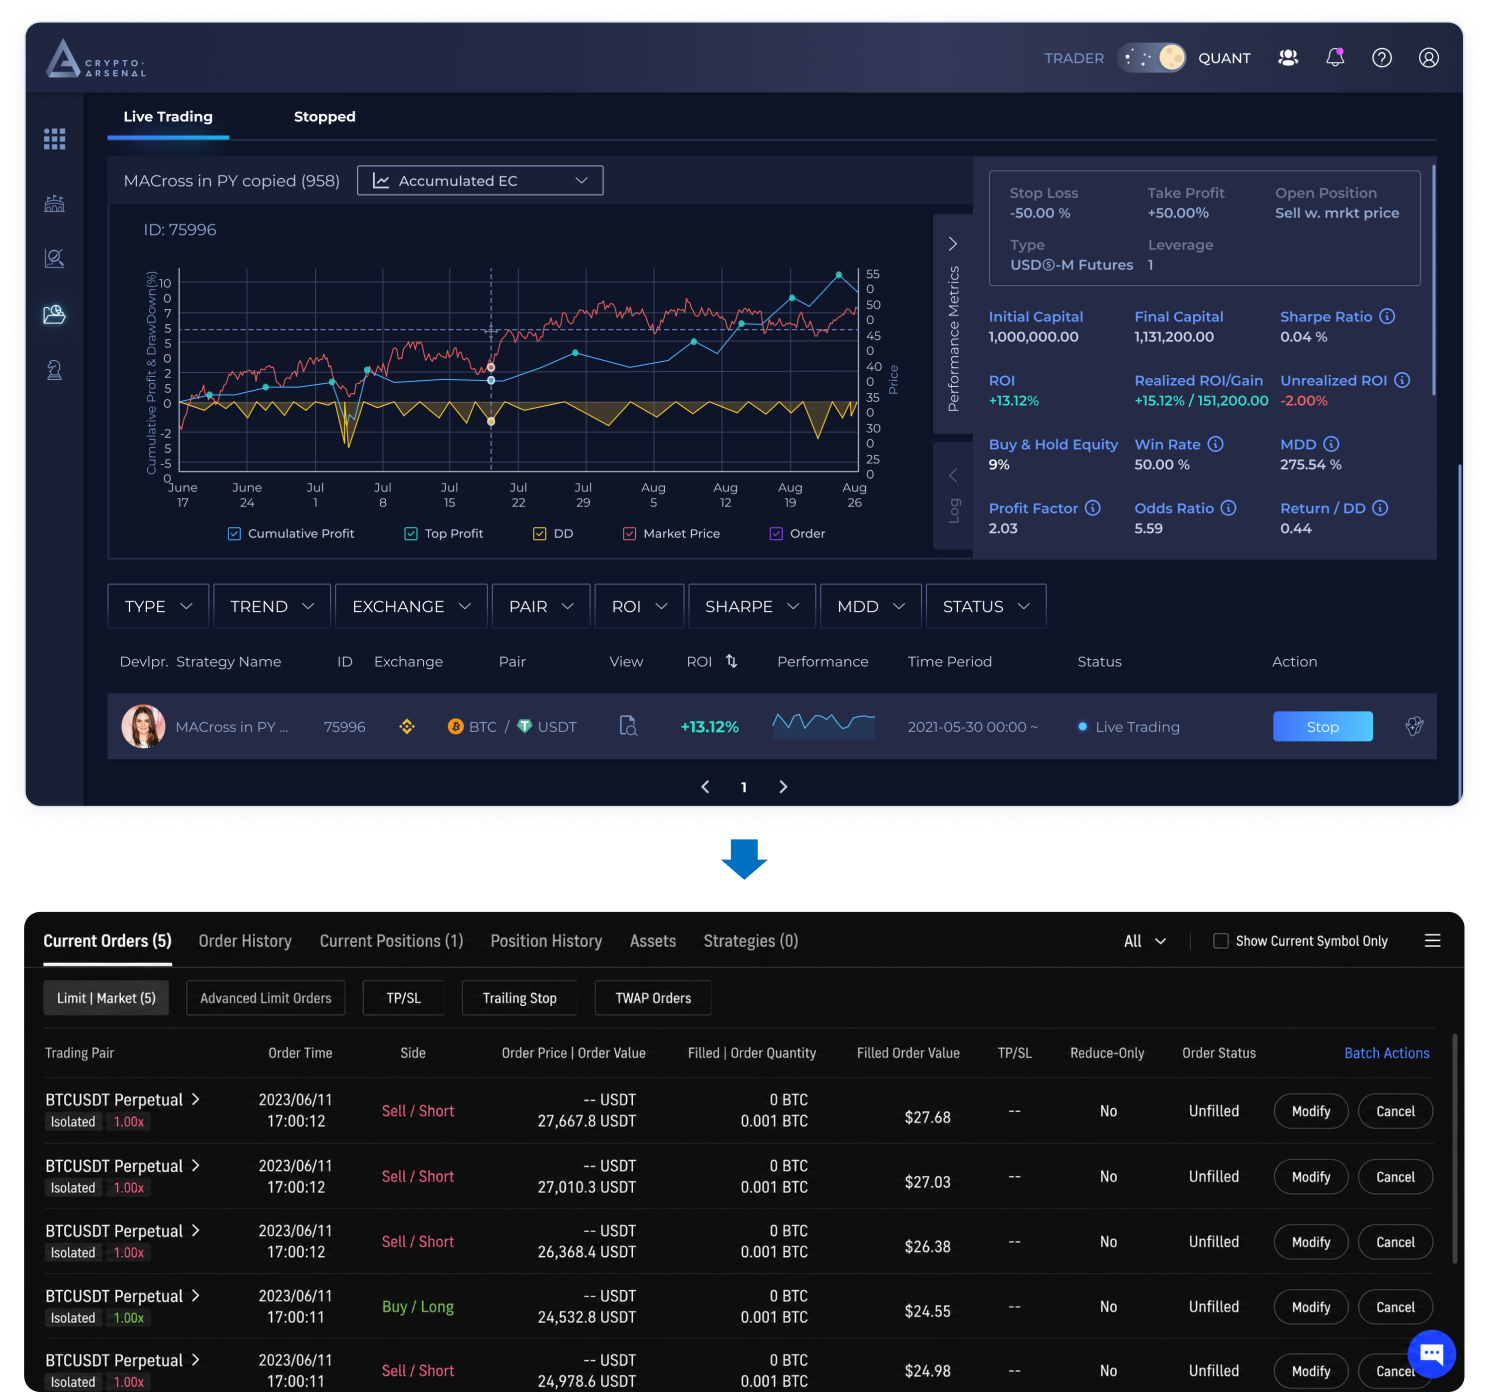
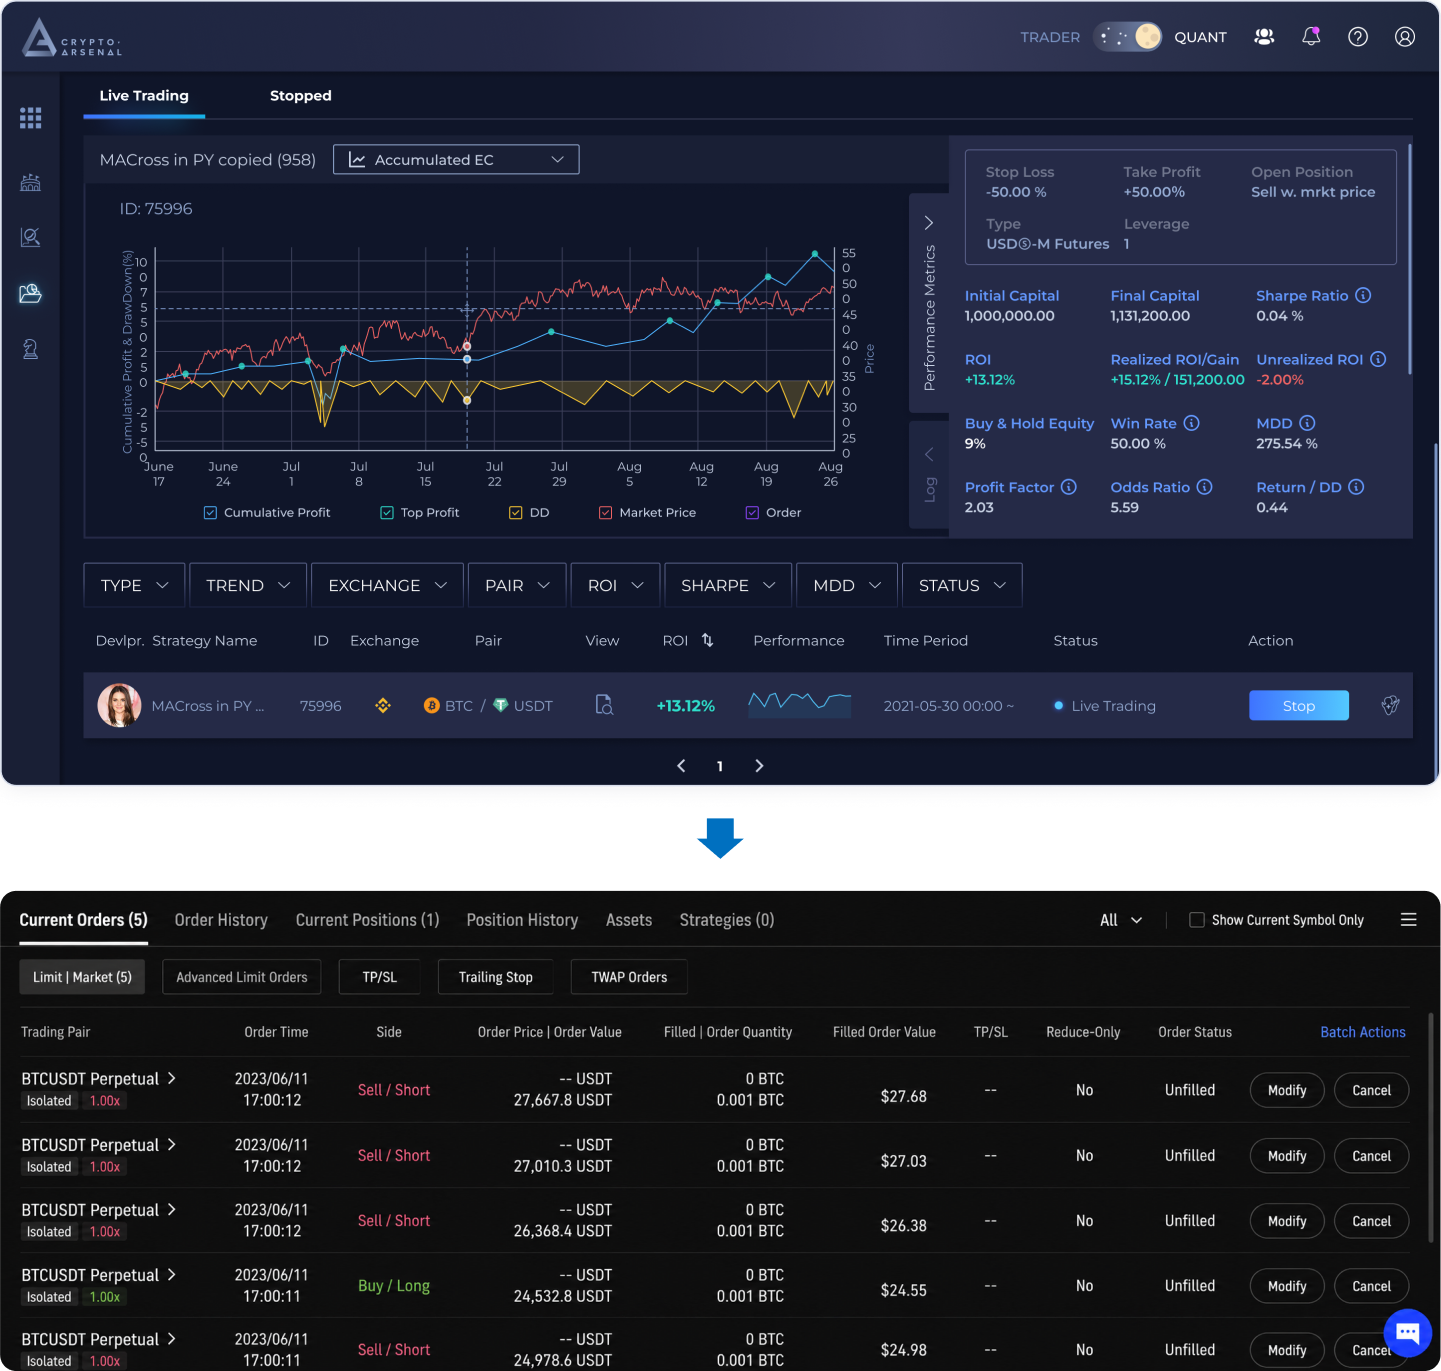
style: crop current-state-figure to fix alignment issue and update image props in CurrentSection

diff --git a/app/crypto-arsenal/i18n.ts b/app/crypto-arsenal/i18n.ts
@@ -329,6 +329,10 @@ const en = {
     "Showing position details in a dropdown under the running strategy bot bar would prevent other strategy bots from being fully visible. Exchanges also limit how many orders / positions can be shown at once, often around 20.",
   "參考 CA 中 Watchlist 頁面的選擇策略機器人流程，點擊 add 按鈕後，右邊的 sidebar 展開，用戶可以點選有興趣機器人並加入到右邊清單中。將用戶原本就已經熟悉 UI 流程整合到新的倉位資訊設計流程中，提升用戶操作的流暢度。":
     "The final direction references CA's Watchlist flow for selecting strategy bots: after tapping add, the right sidebar opens and users can select bots to add to the list. Reusing a UI flow users already know makes the new position-information flow smoother.",
+  "CA Watchlist 頁面點擊 add 按鈕後開啟 Sidebar 的操作流程參考":
+    "CA Watchlist reference: tapping add opens the sidebar flow",
+  "CA Watchlist 頁面右側 Sidebar 選擇策略機器人並加入清單的操作流程參考":
+    "CA Watchlist reference: selecting strategy bots in the right sidebar and adding them to the list",
   "雖然這個版本是參考幣安平台的現行設計，固然是個不錯且用戶習慣的設計，然而 CA 目前沒有該元件，需要重新手刻較費時。":
     "Although this version references Binance's current pattern and is familiar to users, CA does not currently have this component, so building it from scratch would take more time.",
   "目前的 Dropdown List 在平台中僅用於設定策略機器人的 API 或是交易幣別設定，若是用於新增全新的委託或是平倉，這樣設計會與原本 Dropdown List 使用邏輯有衝突。":
@@ -366,8 +370,8 @@ const en = {
   // ── Final ──
   "最終介面：倉位顯示、手動平倉、下止盈止損單":
     "Final UI: Position Display, Manual Close, and TP/SL Orders",
-  "最終把倉位顯示與手動平倉做成可點的 prototype，作為交付給工程的依據，並清楚區分「平倉」與「停止策略」避免誤觸。":
-    "The position display and manual close were finalized as a clickable prototype to hand off to engineering, clearly separating \"close position\" from \"stop strategy\" to avoid mistaps.",
+  "承接競品流程的拆解與多次提案的權衡，收斂出最適合 CA 的方案，把倉位顯示與手動平倉做成可點的 prototype 交付工程，並清楚區分「平倉」與「停止策略」避免誤觸。":
+    "Building on the competitor-flow breakdown and several rounds of proposal weighing, the best-fit approach for CA was distilled into a clickable prototype to hand off to engineering, clearly separating \"close position\" from \"stop strategy\" to avoid mistaps.",
   "CA 內手動限價平倉": "Manual Limit Close inside CA",
   "CA 內手動市價平倉": "Manual Market Close inside CA",
   "CA 內手動限價平倉的最終介面：Trading Details 彈窗中的倉位列表與平倉入口":

diff --git a/app/crypto-arsenal/data.ts b/app/crypto-arsenal/data.ts
@@ -247,8 +247,7 @@ export interface WireframeProposal {
   slides: WireframeSlide[];
   reasonTitle: string;
   reasonBody: string;
-  referenceImage?: string;
-  referenceAlt?: string;
+  referenceImages?: WireframeReferenceImage[];
 }
 
 export interface WireframeSlide {
@@ -259,9 +258,30 @@ export interface WireframeSlide {
   caption: string;
 }
 
+export interface WireframeReferenceImage {
+  img: string;
+  alt: string;
+  width: number;
+  height: number;
+}
+
 const WIRE = `${IMG}/wireframe/figma`;
 const WF_W = 1248;
 const WF_H = 1082;
+const WATCHLIST_REFERENCES: WireframeReferenceImage[] = [
+  {
+    img: `${WIRE}/close-final-reference-watchlist-add.png`,
+    alt: "CA Watchlist 頁面點擊 add 按鈕後開啟 Sidebar 的操作流程參考",
+    width: 1030,
+    height: 556,
+  },
+  {
+    img: `${WIRE}/close-final-reference-watchlist-sidebar.png`,
+    alt: "CA Watchlist 頁面右側 Sidebar 選擇策略機器人並加入清單的操作流程參考",
+    width: 1030,
+    height: 556,
+  },
+];
 
 export const wireframeBoards: WireframeBoard[] = [
   {
@@ -377,8 +397,7 @@ export const wireframeBoards: WireframeBoard[] = [
         reasonTitle: "採納理由",
         reasonBody:
           "參考 CA 中 Watchlist 頁面的選擇策略機器人流程，點擊 add 按鈕後，右邊的 sidebar 展開，用戶可以點選有興趣機器人並加入到右邊清單中。將用戶原本就已經熟悉 UI 流程整合到新的倉位資訊設計流程中，提升用戶操作的流暢度。",
-        referenceImage: `${WIRE}/close-final-references.png`,
-        referenceAlt: "CA Watchlist 頁面既有 Sidebar 操作流程參考",
+        referenceImages: WATCHLIST_REFERENCES,
       },
     ],
   },
@@ -495,8 +514,7 @@ export const wireframeBoards: WireframeBoard[] = [
         reasonTitle: "採納理由",
         reasonBody:
           "參考 CA 中 Watchlist 頁面的選擇策略機器人流程，點擊 add 按鈕後，右邊的 sidebar 展開，用戶可以點選有興趣機器人並加入到右邊清單中。將用戶原本就已經熟悉 UI 流程整合到新的倉位資訊設計流程中，提升用戶操作的流暢度。",
-        referenceImage: `${WIRE}/tpsl-final-references.png`,
-        referenceAlt: "CA Watchlist 頁面既有 Sidebar 操作流程參考",
+        referenceImages: WATCHLIST_REFERENCES,
       },
     ],
   },

diff --git a/styles/case-study-crypto-arsenal.css b/styles/case-study-crypto-arsenal.css
@@ -879,17 +879,17 @@
   border-radius: 999px;
   background: #ffffff;
   box-shadow: 0 8px 18px -8px rgba(9, 48, 96, 0.12);
-  color: #7d4fb9;
+  color: var(--purple);
   font-size: 30px;
   font-weight: 700;
   line-height: 1;
   cursor: pointer;
-  transition: transform 160ms ease, opacity 160ms ease, color 160ms ease;
+  transition: background 160ms ease, opacity 160ms ease, color 160ms ease;
 }
 
 .theme-crypto-arsenal .ca-wf-nav:hover:not(:disabled) {
-  transform: translateY(-1px);
-  color: var(--ca-blue);
+  background: var(--surface);
+  color: var(--purple-hover);
 }
 
 .theme-crypto-arsenal .ca-wf-nav:disabled {
@@ -964,13 +964,25 @@
   color: var(--ca-secondary);
 }
 
+.theme-crypto-arsenal .ca-wf-references {
+  display: grid;
+  grid-template-columns: repeat(2, minmax(0, 1fr));
+  gap: 24px;
+  margin-top: 18px;
+}
+
 .theme-crypto-arsenal .ca-wf-reference {
+  overflow: hidden;
+  margin: 0;
+  border: 1px solid var(--ca-line-soft);
+  border-radius: 10px;
+  background: #ffffff;
+}
+
+.theme-crypto-arsenal .ca-wf-reference img {
   display: block;
   width: 100%;
   height: auto;
-  margin-top: 18px;
-  border: 1px solid var(--ca-line-soft);
-  border-radius: 10px;
 }
 
 /* ── 08 設計元件迭代 ── */
@@ -1214,6 +1226,10 @@
 }
 
 @media (max-width: 1023px) {
+  .theme-crypto-arsenal .ca-wf-references {
+    grid-template-columns: 1fr;
+  }
+
   .theme-crypto-arsenal .ca-decision {
     grid-template-columns: 1fr;
   }

diff --git a/app/crypto-arsenal/components/WireframeProposalBoard.tsx b/app/crypto-arsenal/components/WireframeProposalBoard.tsx
@@ -114,15 +114,21 @@ export default function WireframeProposalBoard({ board }: WireframeProposalBoard
           <div className="ca-wf-reason">
             <p className="ca-wf-reason-title">{t(proposal.reasonTitle)}</p>
             <p className="ca-wf-reason-body">{t(proposal.reasonBody)}</p>
-            {proposal.referenceImage && proposal.referenceAlt ? (
-              <Image
-                src={proposal.referenceImage}
-                alt={t(proposal.referenceAlt)}
-                width={1276}
-                height={278}
-                className="ca-wf-reference"
-                unoptimized
-              />
+            {proposal.referenceImages ? (
+              <div className="ca-wf-references">
+                {proposal.referenceImages.map((item) => (
+                  <figure key={item.img} className="ca-wf-reference">
+                    <Image
+                      src={item.img}
+                      alt={t(item.alt)}
+                      width={item.width}
+                      height={item.height}
+                      sizes="(max-width: 768px) 100vw, 48vw"
+                      unoptimized
+                    />
+                  </figure>
+                ))}
+              </div>
             ) : null}
           </div>
         </div>

diff --git a/app/crypto-arsenal/sections/FinalSection.tsx b/app/crypto-arsenal/sections/FinalSection.tsx
@@ -10,7 +10,7 @@ export default async function FinalSection() {
       <h2 className="ca-h2">{t("最終介面：倉位顯示、手動平倉、下止盈止損單")}</h2>
       <p className="ca-lead">
         {t(
-          "最終把倉位顯示與手動平倉做成可點的 prototype，作為交付給工程的依據，並清楚區分「平倉」與「停止策略」避免誤觸。",
+          "承接競品流程的拆解與多次提案的權衡，收斂出最適合 CA 的方案，把倉位顯示與手動平倉做成可點的 prototype 交付工程，並清楚區分「平倉」與「停止策略」避免誤觸。",
         )}
       </p>
       {finalFlows.map((flow, i) => (

diff --git a/styles/case-study-advantech.css b/styles/case-study-advantech.css
@@ -1533,20 +1533,20 @@
   box-shadow: 0px 8px 18px -8px rgba(9, 48, 96, 0.12);
   font-size: 30px;
   font-weight: 700;
-  color: #7d4fb9;
+  color: var(--purple);
   cursor: pointer;
   transition:
+    background 0.15s,
     color 0.15s,
-    opacity 0.15s,
-    transform 0.15s;
+    opacity 0.15s;
   line-height: 1;
   padding: 0;
   padding-bottom: 2px;
 }
 
 .theme-advantech .cs-sol-nav-btn:hover:not(:disabled) {
-  color: var(--cs-blue);
-  transform: translateY(-1px);
+  background: var(--surface);
+  color: var(--purple-hover);
 }
 
 .theme-advantech .cs-sol-nav-btn:disabled {

diff --git a/app/crypto-arsenal/sections/CurrentSection.tsx b/app/crypto-arsenal/sections/CurrentSection.tsx
@@ -17,8 +17,8 @@ export default async function CurrentSection() {
           <Image
             src="/projects/crypto-arsenal/current/current-state-figure.png"
             alt={t("Crypto Arsenal 策略詳情頁現況：上方策略列表與績效指標，下方訂單與倉位清單仍分散於交易所端")}
-            width={1489}
-            height={1392}
+            width={1441}
+            height={1371}
             sizes="(max-width: 768px) 100vw, 1440px"
             style={{ width: "100%", height: "auto" }}
             unoptimized
